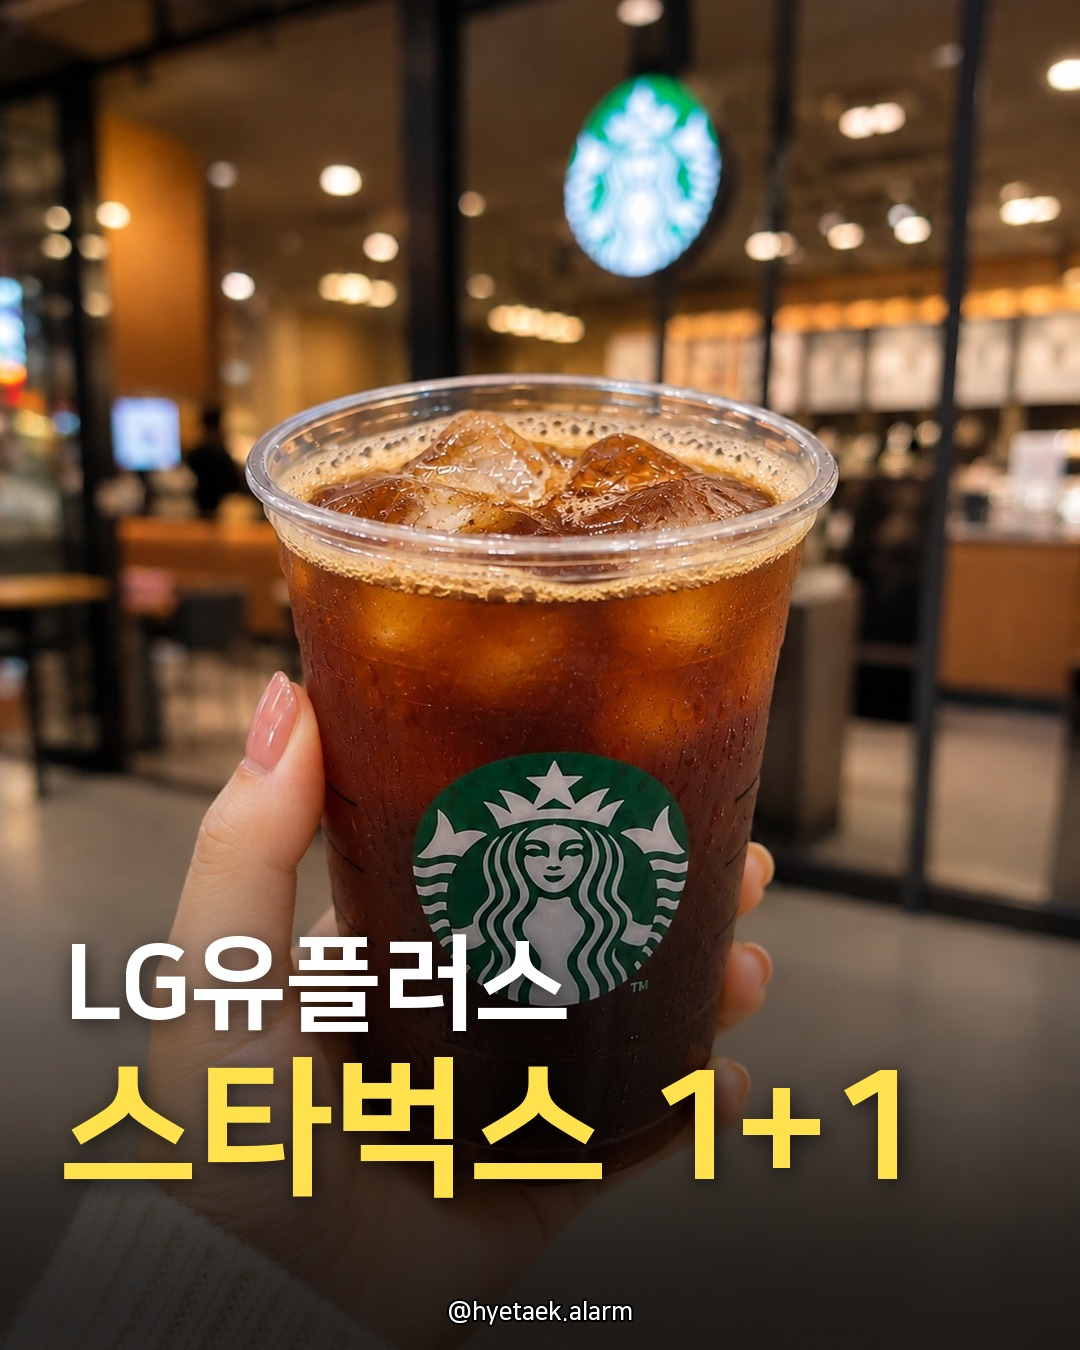
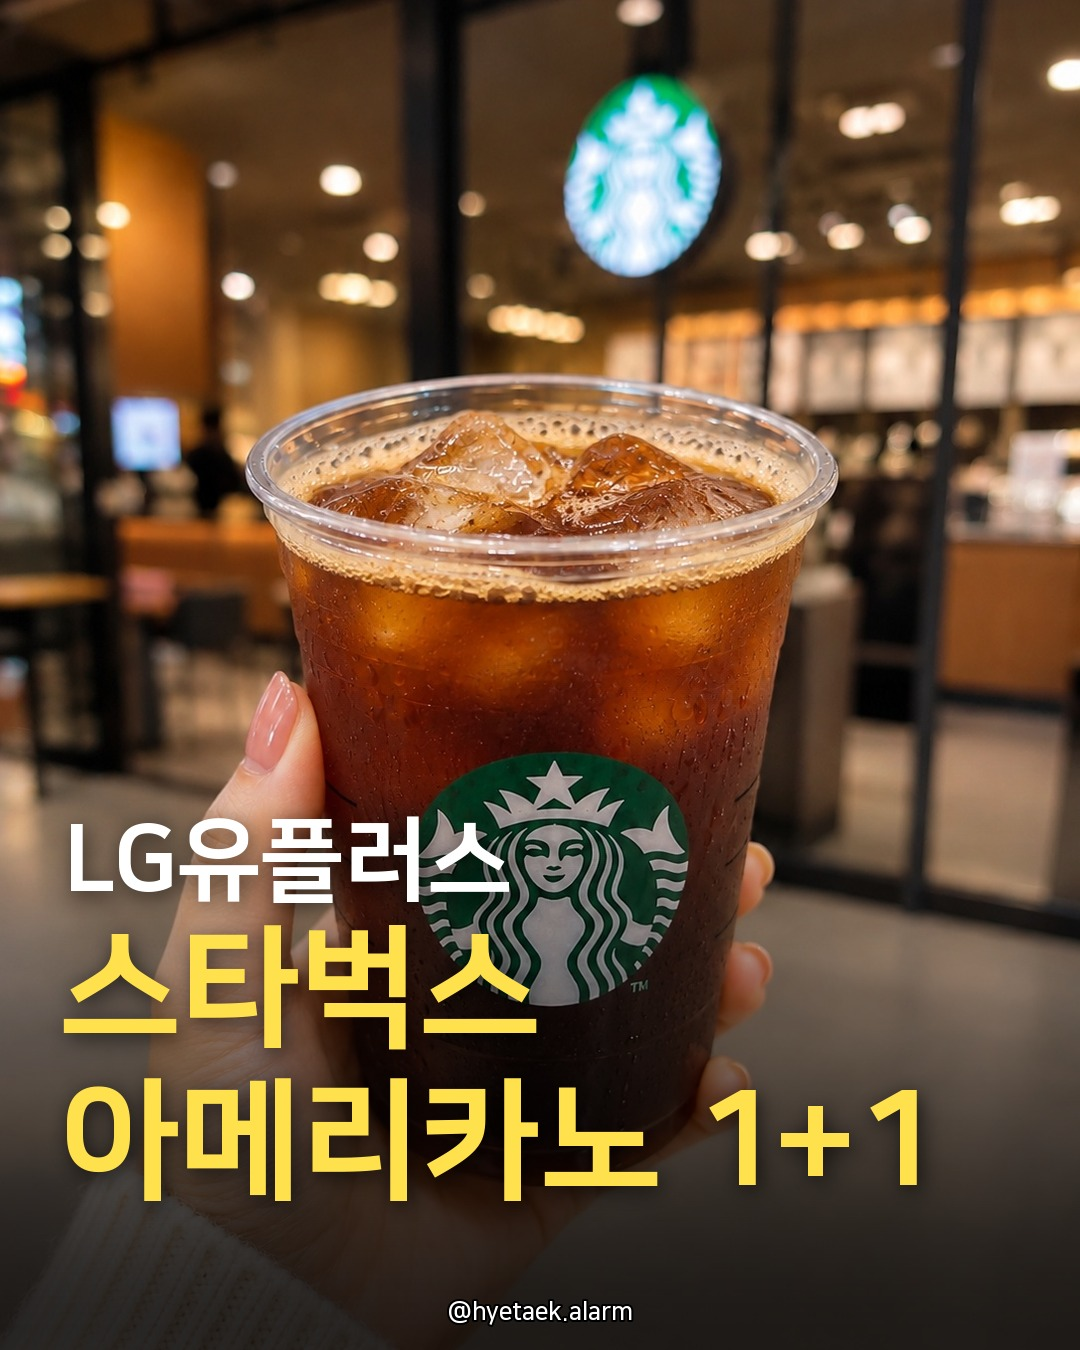
혜택알람 사진 표지: 혜택 줄 2줄까지 지원 (브랜드+혜택 3줄)
Claude-Session: https://claude.ai/code/session_013eU9upJ36tdqKzB4UjrVYH

Changed region(s): [[0.0611, 0.5911, 0.6111, 0.9022], [0.6111, 0.7778, 0.8556, 0.9022]]

diff --git a/screendaily/cards.py b/screendaily/cards.py
@@ -1079,16 +1079,19 @@ def render_photo_cover(post: Post, config: dict) -> Image.Image:
     if not (config.get("alarm") or {}).get("hide_page"):
         d.text((W - M, 64), f"{1:02d}/{total:02d}", font=font(B, 28), fill=(255, 255, 255, 210), anchor="ra",
            stroke_width=2, stroke_fill=(0, 0, 0, 80))
-    lines = [t for t in post.title.split("\n") if t.strip()][:2]
-    brand_line, benefit = (lines[0], lines[1]) if len(lines) > 1 else ("", lines[0] if lines else "")
-    bf = font(EB, 150)
-    while _tw(bf, benefit) > W - 2 * M and bf.size > 70:
+    lines = [t for t in post.title.split("\n") if t.strip()][:3]
+    # 첫 줄 브랜드(흰색), 나머지 1~2줄 혜택(강조색, 가장 크게). 혜택 줄들은 같은 크기로 맞춤
+    brand_line, benefits = (lines[0], lines[1:]) if len(lines) > 1 else ("", lines or [""])
+    bf = font(EB, 150 if len(benefits) == 1 else 132)
+    while max(_tw(bf, b) for b in benefits) > W - 2 * M and bf.size > 70:
         bf = font(EB, bf.size - 4)
-    nf = font(EB, 104)
+    nf = font(EB, 104 if len(benefits) == 1 else 92)
     while _tw(nf, brand_line) > W - 2 * M and nf.size > 56:
         nf = font(EB, nf.size - 4)
-    y = H - 120 - line_h(bf)
-    _shadow_text(canvas, (M - 4, y), benefit, bf, c["hl"])
+    lh = line_h(bf) - (8 if len(benefits) > 1 else 0)
+    y = H - 120 - line_h(bf) - lh * (len(benefits) - 1)
+    for i, b in enumerate(benefits):
+        _shadow_text(canvas, (M - 4, y + lh * i), b, bf, c["hl"])
     if brand_line:
         _shadow_text(canvas, (M, y - line_h(nf) + 6), brand_line, nf, (255, 255, 255))
     credit = post.cover_credit or _post_credit(post)
